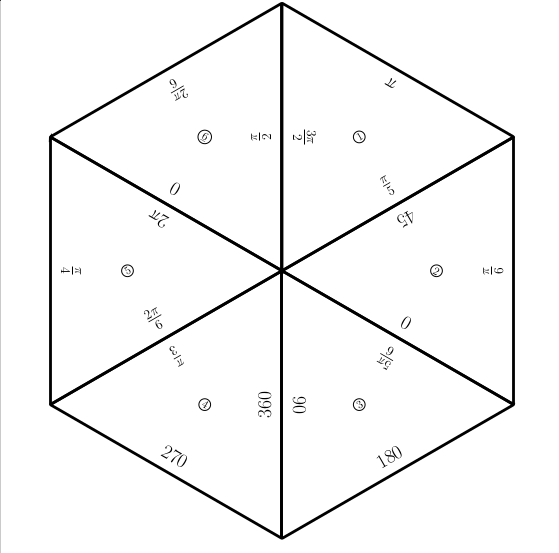
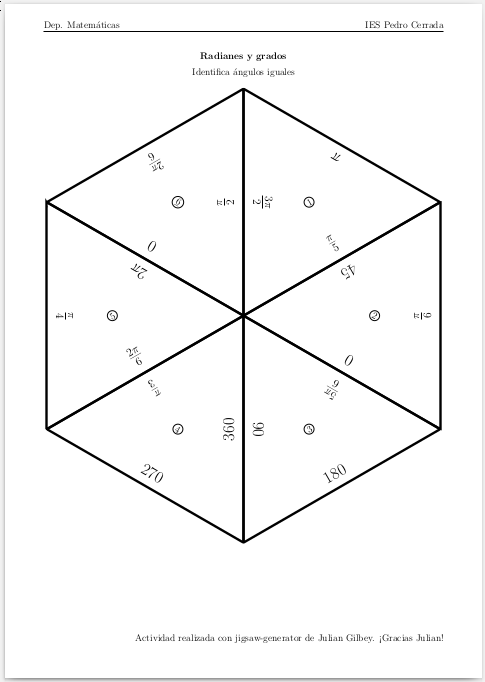
z

diff --git a/_posts/2019-01-11-Puzzles_matematicos_jgisaw.md b/_posts/2019-01-11-Puzzles_matematicos_jgisaw.md
@@ -145,7 +145,7 @@ El más sencillo es de tipo *smallhexagon* de 6 triángulos. Luego necesito 6 *p
 ```yaml
 type: smallhexagon
 title: Radianes y grados
-note: "Identifica angulos iguales"
+note: "Identifica ángulos iguales"
 pairs:
     - ['$0$','$0$']
     - ['$90$','$\frac{\pi}{2}$']
